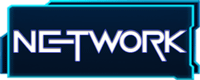
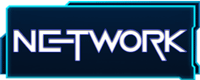
Redesign of Start Screen.

Changed region(s): [[0.0, 0.0, 1.0, 1.0], [0.36, 0.75, 0.42, 0.775]]

diff --git a/src/cyberzul/view/CyberzulView.java b/src/cyberzul/view/CyberzulView.java
@@ -5,6 +5,7 @@ import cyberzul.model.Model;
 import cyberzul.model.events.*;
 import cyberzul.view.board.GameBoard;
 import cyberzul.view.listeners.TileClickListener;
+import cyberzul.view.panels.NetworkPanel;
 import cyberzul.view.panels.SinglePlayerPanel;
 import edu.umd.cs.findbugs.annotations.SuppressFBWarnings;
 import org.apache.logging.log4j.LogManager;
@@ -93,7 +94,7 @@ public class CyberzulView extends JFrame implements PropertyChangeListener {
       customFont = customFont.deriveFont(12f);
       GraphicsEnvironment ge = GraphicsEnvironment.getLocalGraphicsEnvironment();
       //register the font
-      //IMPORTANT: always call .deriveFont(size) when using customFont
+      //IMPORTANT: call .deriveFont(size) when not using default font size 12f
       ge.registerFont(customFont);
     } catch (IOException | FontFormatException e) {
       e.printStackTrace();
@@ -110,6 +111,8 @@ public class CyberzulView extends JFrame implements PropertyChangeListener {
     networkButton.setContentAreaFilled(false);
     networkButton.setBorderPainted(false);
     singlePlayerModeButton = new JButton();
+    singlePlayerModeButton.setContentAreaFilled(false);
+    singlePlayerModeButton.setBorderPainted(false);
     addPlayerButton = new JButton("+ Add Player");
     playButton = new JButton();
     playButton.setContentAreaFilled(false);
@@ -140,6 +143,10 @@ public class CyberzulView extends JFrame implements PropertyChangeListener {
     resource = getClass().getClassLoader().getResource("img/network-button.png");
     icon = new ImageIcon(Objects.requireNonNull(resource));
     networkButton.setIcon(icon);
+
+    resource = getClass().getClassLoader().getResource("img/singleplayer-button.png");
+    icon = new ImageIcon(Objects.requireNonNull(resource));
+    singlePlayerModeButton.setIcon(icon);
 
     resource = getClass().getClassLoader().getResource("img/start-game-button.png");
     icon = new ImageIcon(Objects.requireNonNull(resource));
@@ -316,26 +323,20 @@ public class CyberzulView extends JFrame implements PropertyChangeListener {
     panel.setMaximumSize(frameDimension);
     setContentPane(panel);
 
-    JPanel login = new JPanel(new GridLayout(2, 1));
+    JPanel login = new JPanel(null);
     login.setMinimumSize(frameDimension);
     login.setMaximumSize(frameDimension);
-    login.add(gameLogoLabel);
 
-    JPanel container = new JPanel();
-    container.setLayout(new BoxLayout(container, BoxLayout.Y_AXIS));
-    container.add(selectModeLabel);
-    JPanel modeButtons = new JPanel();
-    modeButtons.setOpaque(false);
-    modeButtons.add(hotSeatModeButton);
-    modeButtons.add(networkButton);
-    modeButtons.add(singlePlayerModeButton);
-    container.add(modeButtons);
-    container.setOpaque(false);
+    singlePlayerModeButton.setBounds(235, 450, 200, 80);
+    hotSeatModeButton.setBounds(590, 450, 200,80);
+    networkButton.setBounds(940,450,200, 80);
+    login.add(hotSeatModeButton);
+    login.add(networkButton);
+    login.add(singlePlayerModeButton);
 
-    login.add(container);
 
-    JPanel backgroundPanel = new ImagePanel(login, backgroundPath, FRAME_WIDTH, FRAME_HEIGHT,
-        backgroundScaleFactor);
+    JPanel backgroundPanel = new ImagePanel(login, "img/startbackground.jpg", FRAME_WIDTH, FRAME_HEIGHT,
+        1);
     add(backgroundPanel, LOGIN_CARD);
 
   }
@@ -380,7 +381,7 @@ public class CyberzulView extends JFrame implements PropertyChangeListener {
     inputField = new JTextField(10);
     numberOfLoggedInPlayersLabel =
         new JLabel("Number of Players: " + (model.getPlayerNamesList().size()) + ".");
-    JPanel networkModePanel = new JPanel();
+    JPanel networkModePanel = new NetworkPanel(frameDimension);
     networkModePanel.add(numberOfLoggedInPlayersLabel);
     networkModePanel.add(pleaseEnterNameLabel);
     networkModePanel.add(inputField);

diff --git a/src/cyberzul/view/panels/NetworkPanel.java b/src/cyberzul/view/panels/NetworkPanel.java
@@ -1,0 +1,49 @@
+package cyberzul.view.panels;
+
+import javax.imageio.ImageIO;
+import javax.swing.*;
+import java.awt.*;
+import java.awt.image.BufferedImage;
+import java.io.IOException;
+import java.io.Serial;
+import java.net.URL;
+import java.util.Objects;
+
+public class NetworkPanel extends JPanel {
+    private transient BufferedImage image;
+    private Dimension containerDimension;
+    @Serial
+    private static final long serialVersionUID = 17L;
+
+
+    public NetworkPanel(Dimension frameDimension) {
+
+        setMinimumSize(frameDimension);
+        setMaximumSize(frameDimension);
+        setLayout(null);
+        setOpaque(false);
+
+        containerDimension = new Dimension((int) (frameDimension.width * 0.7), (int)
+                (frameDimension.height * 0.7));
+
+        JPanel container = new JPanel() {
+            @Override
+            protected void paintComponent(Graphics g) {
+                super.paintComponent(g);
+                g.drawImage(image, 0, 0, null);
+            }
+        };
+        container.setBounds(130, 80, containerDimension.width, containerDimension.height);
+        container.setOpaque(false);
+        add(container);
+
+        try {
+            URL imgUrl = getClass().getClassLoader().getResource("img/lobby-panel.png");
+            image = ImageIO.read(Objects.requireNonNull(imgUrl));
+            image.getScaledInstance(containerDimension.width, containerDimension.height,
+                    Image.SCALE_SMOOTH);
+        } catch (IOException e) {
+            throw new RuntimeException(e);
+        }
+    }
+}

diff --git a/src/cyberzul/view/panels/SinglePlayerPanel.java b/src/cyberzul/view/panels/SinglePlayerPanel.java
@@ -1,16 +1,17 @@
 package cyberzul.view.panels;
 
-import java.awt.Dimension;
-import java.awt.Graphics;
-import java.awt.Image;
+import javax.imageio.ImageIO;
+import javax.swing.*;
+import java.awt.*;
 import java.awt.image.BufferedImage;
 import java.io.IOException;
 import java.io.Serial;
 import java.net.URL;
 import java.util.Objects;
-import javax.imageio.ImageIO;
-import javax.swing.JPanel;
 
+/**
+ * Lobby Screen after selecting Single Player Mode
+ */
 public class SinglePlayerPanel extends JPanel {
   private transient BufferedImage image;
   private Dimension containerDimension;
@@ -35,7 +36,7 @@ public class SinglePlayerPanel extends JPanel {
         g.drawImage(image, 0, 0, null);
         }
       };
-    container.setBounds(130, 80, containerDimension.width, containerDimension.height);
+    container.setBounds(200, 80, containerDimension.width, containerDimension.height);
     container.setOpaque(false);
     add(container);
 
